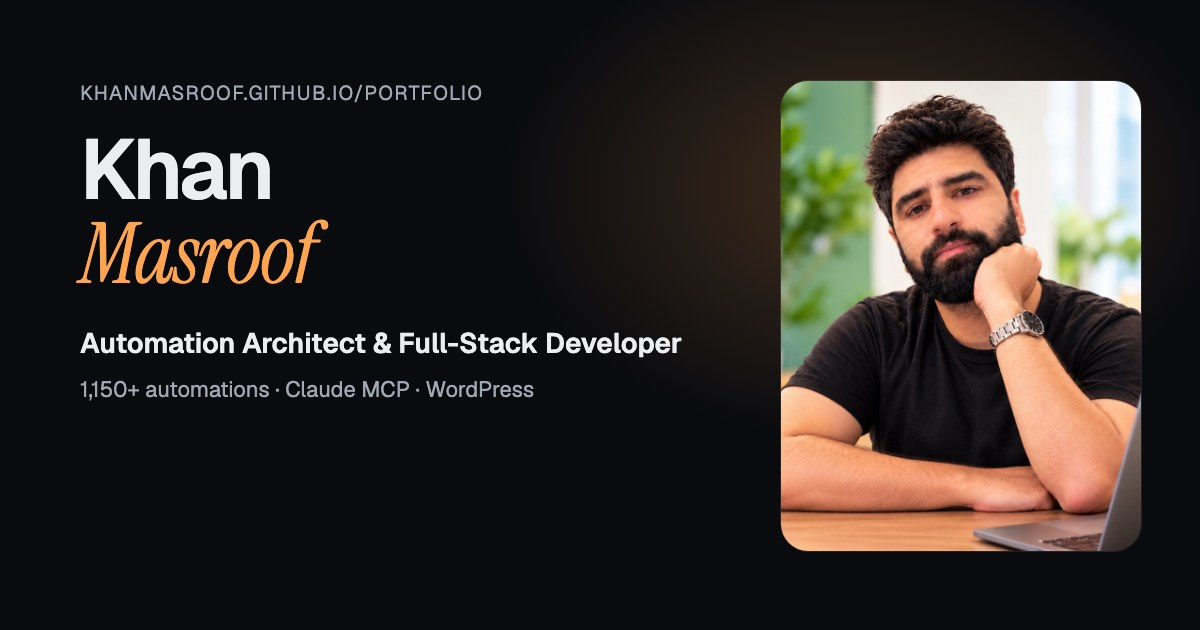
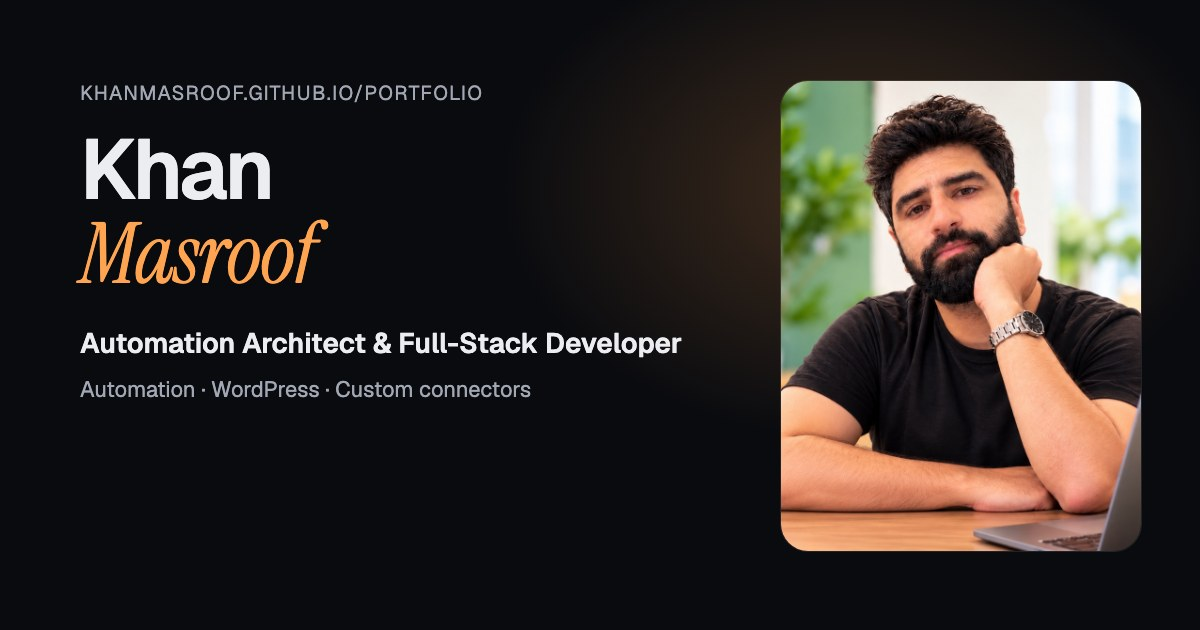
Add live flow diagram, lead with WordPress and automation
Animated five-stage flow from WordPress to team and AI, sections
reordered so automation and WordPress come first, updated counts
(800+ pages, 50+ connectors, 20+ services), EasyWebinar to
LeadSquared card, callback queue and Q&A inbox removed, photo
badges removed.

Changed region(s): [[0.0617, 0.6032, 0.4625, 0.6333]]

diff --git a/index.html b/index.html
@@ -4,7 +4,7 @@
 <meta charset="utf-8">
 <meta name="viewport" content="width=device-width, initial-scale=1">
 <title>Khan Masroof Portfolio</title>
-<meta name="description" content="Khan Masroof, automation architect and full-stack developer. 1,150+ automation pipelines, 13 production services and six Claude MCP connectors for a London edtech company.">
+<meta name="description" content="Khan Masroof, automation architect and full-stack developer. 1,150+ automations, 50+ custom connectors, 20+ production services and 800+ WordPress landing pages for a London edtech company.">
 <link rel="canonical" href="https://khanmasroof.github.io/portfolio/">
 <meta property="og:type" content="profile">
 <meta property="og:url" content="https://khanmasroof.github.io/portfolio/">
@@ -210,6 +210,32 @@ section{scroll-margin-top:72px}
 @media (max-width:720px){.auto-foot{grid-template-columns:1fr}}
 @media (max-width:460px){.plat{grid-template-columns:1fr}}
 
+/* live flow */
+.flow{background:var(--surface);border:1px solid var(--line);border-radius:24px;padding:clamp(20px,3vw,32px);position:relative;overflow:hidden}
+.flow::before{content:"";position:absolute;inset:-40% 30% auto 30%;height:300px;background:radial-gradient(closest-side,rgba(255,165,82,.10),transparent);pointer-events:none}
+.flow-live{position:relative;display:flex;align-items:center;gap:12px;font:500 14px/1.5 var(--mono);color:var(--text);background:var(--bg);border:1px solid var(--line);border-radius:14px;padding:12px 16px;margin-bottom:24px;min-height:50px}
+.flow-dot{width:8px;height:8px;border-radius:50%;background:#4ADE80;flex:none;box-shadow:0 0 0 4px rgba(74,222,128,.15);animation:blink 1.6s infinite}
+@keyframes blink{50%{opacity:.35}}
+.stages{list-style:none;margin:0;padding:0;display:grid;grid-template-columns:repeat(5,minmax(0,1fr));gap:28px;position:relative}
+.stage{position:relative;background:var(--bg);border:1px solid var(--line);border-radius:18px;padding:20px 18px;display:flex;flex-direction:column;gap:10px;transition:border-color .35s,box-shadow .35s,transform .35s}
+.stage > .ico{width:26px;height:26px;color:var(--accent)}
+.st-n{position:absolute;top:16px;right:16px;font:500 11.5px var(--mono);color:var(--muted)}
+.stage h3{font-size:18px;letter-spacing:-.02em}
+.stage p{color:var(--muted);font-size:14px;line-height:1.5}
+.stage .chips{margin-top:auto}
+.stage .chips span{font-size:11px;padding:4px 8px}
+.stage.on{border-color:rgba(255,165,82,.6);box-shadow:0 0 0 4px rgba(255,165,82,.08),0 20px 40px -20px rgba(255,165,82,.35);transform:translateY(-3px)}
+.stage:not(:last-child)::after{content:"";position:absolute;top:50%;right:-28px;width:28px;height:2px;background:repeating-linear-gradient(90deg,rgba(255,165,82,.55) 0 6px,transparent 6px 11px);background-size:22px 2px;animation:dash 1s linear infinite}
+@keyframes dash{to{background-position:22px 0}}
+@keyframes dashv{to{background-position:0 22px}}
+@media (max-width:1060px){
+  .stages{grid-template-columns:1fr;gap:26px}
+  .stage{display:grid;grid-template-columns:30px minmax(0,1fr);column-gap:14px;row-gap:6px;align-items:start}
+  .stage > .ico{grid-row:span 3}
+  .stage .chips{margin-top:4px}
+  .stage:not(:last-child)::after{top:auto;bottom:-26px;right:auto;left:32px;width:2px;height:26px;background:repeating-linear-gradient(180deg,rgba(255,165,82,.55) 0 6px,transparent 6px 11px);background-size:2px 22px;animation:dashv 1s linear infinite}
+}
+
 /* experience */
 .xp{display:grid;gap:18px}
 .job{display:grid;grid-template-columns:220px minmax(0,1fr);gap:28px;padding:30px;background:var(--surface);border:1px solid var(--line);border-radius:22px}
@@ -277,9 +303,10 @@ footer .wrap{display:flex;justify-content:space-between;gap:12px;flex-wrap:wrap}
   <div class="wrap">
     <a class="brand" href="#top"><i>KM</i>Khan Masroof</a>
     <ul>
-      <li><a href="#work">Work</a></li>
+      <li><a href="#flow">Live flow</a></li>
       <li><a href="#automation">Automation</a></li>
       <li><a href="#wordpress">WordPress</a></li>
+      <li><a href="#work">Tools</a></li>
       <li><a href="#experience">Experience</a></li>
       <li><a href="#skills">Skills</a></li>
     </ul>
@@ -294,9 +321,9 @@ footer .wrap{display:flex;justify-content:space-between;gap:12px;flex-wrap:wrap}
       <span class="avail"><b></b>Open to remote roles · Srinagar, India</span>
       <h1>I make business tools <em>talk</em> to each other.</h1>
       <p class="role">Automation Architect &amp; Full-Stack Developer</p>
-      <p class="intro">For three years I have run the automation behind a London edtech company: 1,150+ automations in Zapier, Make, n8n and Pabbly, 13 cloud services, custom Claude AI connectors, and the WordPress site its customers use every day.</p>
+      <p class="intro">For three years I have run the automation behind a London edtech company: 1,150+ automations in Zapier, Make, n8n and Pabbly, 50+ custom connectors, 20+ cloud services, and a WordPress site with 800+ landing pages.</p>
       <div class="cta">
-        <a class="btn" href="#work">See my work <svg class="ico"><use href="#i-arrow"/></svg></a>
+        <a class="btn" href="#flow">See how it works <svg class="ico"><use href="#i-arrow"/></svg></a>
         <a class="btn ghost" href="#contact">Contact me</a>
       </div>
     </div>
@@ -305,89 +332,63 @@ footer .wrap{display:flex;justify-content:space-between;gap:12px;flex-wrap:wrap}
         <img src="photo.jpg" alt="Khan Masroof" onerror="this.remove();document.getElementById('fb').hidden=false">
         <span class="mono-fb" id="fb" hidden>KM</span>
       </div>
-      <div class="float f1"><svg class="ico"><use href="#i-zap"/></svg><div><strong class="tnum">1,150+</strong><br><span>automations live</span></div></div>
-      <div class="float f2"><svg class="ico"><use href="#i-bot"/></svg><div><strong>Claude MCP</strong><br><span>6 connectors built</span></div></div>
     </div>
   </div>
 
   <div class="wrap" style="position:relative;z-index:1;margin-top:clamp(56px,7vw,88px)">
     <div class="stats">
-      <div class="stat"><strong class="tnum">1,150<sup>+</sup></strong><span>automation pipelines in Zapier, Make and n8n</span></div>
-      <div class="stat"><strong class="tnum">13</strong><span>services I built, live in production on Railway</span></div>
-      <div class="stat"><strong class="tnum">40<sup>+</sup></strong><span>WordPress pages, themes and plugins</span></div>
-            <div class="stat"><strong class="tnum">6</strong><span>custom Claude AI connectors in TypeScript</span></div>
+      <div class="stat"><strong class="tnum">1,150<sup>+</sup></strong><span>automations in Zapier, Make, n8n and Pabbly</span></div>
+      <div class="stat"><strong class="tnum">800<sup>+</sup></strong><span>WordPress landing pages designed and built</span></div>
+      <div class="stat"><strong class="tnum">50<sup>+</sup></strong><span>custom connectors and integrations</span></div>
+            <div class="stat"><strong class="tnum">20<sup>+</sup></strong><span>services I built, live in production on Railway</span></div>
     </div>
   </div>
 </header>
 
 <main>
-<section class="sec" id="work">
+<section class="sec" id="flow">
   <div class="wrap">
     <div class="head">
       <div>
-        <div class="kicker">Selected work</div>
-        <h2>Tools I <em>built</em>.</h2>
+        <div class="kicker">Live flow</div>
+        <h2>From first click to <em>closed</em> sale.</h2>
       </div>
-      <p>Tools I designed and built. Every one is in production.</p>
+      <p>How a visitor moves through the systems I built. Every step below is WordPress or automation work of mine.</p>
     </div>
-
-    <div class="work">
-      <article class="card full">
-        <div style="display:flex;flex-direction:column;gap:16px">
-          <div class="tag"><svg class="ico"><use href="#i-bot"/></svg>AI integration</div>
-          <h3>Claude connectors that answer questions from live company data.</h3>
-          <p>I built six MCP servers in TypeScript and Node.js. The marketing and sales teams ask Claude in plain English and get answers from the CRM, Google Analytics and ad accounts, without exporting a single spreadsheet.</p>
-          <div class="servers">
-            <span><b></b>LeadSquared CRM</span><span><b></b>Google Analytics 4</span><span><b></b>Google Ads</span>
-            <span><b></b>Keap</span><span><b></b>WATI WhatsApp</span><span><b></b>EasyWebinar</span>
-          </div>
-        </div>
-        <div class="chat" aria-label="Example conversation with Claude using the connectors">
-          <div class="msg u">How many leads came from LinkedIn this week, and how many booked a call?</div>
-          <div class="tool"><i></i>leadsquared.search_leads · ga4.traffic_sources</div>
-          <div class="msg a">LinkedIn brought 142 new leads this week, up 18% on last week. 23 of them booked a career call.
-            <div class="mini"><div><b class="tnum">142</b><small>leads</small></div><div><b class="tnum">+18%</b><small>vs last week</small></div><div><b class="tnum">23</b><small>calls booked</small></div></div>
-          </div>
-          <div class="tool" style="justify-content:flex-end">Example conversation</div>
-        </div>
-      </article>
-
-      <article class="card wide">
-        <div class="tag"><svg class="ico"><use href="#i-chat"/></svg>My own product</div>
-        <h3>Inboxly, a shared WhatsApp inbox for sales teams</h3>
-        <p>Several agents work one WhatsApp number together, with assignment, internal notes, stages and live updates. I designed and built it alone, from the database to the interface.</p>
-        <div class="chips"><span>Next.js 15</span><span>Fastify</span><span>Socket.IO</span><span>BullMQ</span><span>Redis</span><span>MongoDB</span></div>
-        <div class="metric"><strong class="tnum">5</strong><span>services running on Railway</span></div>
-      </article>
-
-      <article class="card wide">
-        <div class="tag"><svg class="ico"><use href="#i-zap"/></svg>Custom integrations</div>
-        <h3>CRM integrations written in code</h3>
-        <p>When a no-code step is not enough, I write the integration as its own service. Phone calls, meeting bookings and webinar attendance each land on the right lead in the CRM, in real time.</p>
-        <div class="chips"><span>CallHippo</span><span>Dialpad</span><span>Calendly</span><span>EasyWebinar</span><span>Zoom</span><span>LeadSquared</span></div>
-        <div class="metric"><strong class="tnum">7.4k</strong><span>new leads a month flow through them</span></div>
-      </article>
-
-      <article class="card">
-        <div class="tag"><svg class="ico"><use href="#i-grid"/></svg>Sales dashboard</div>
-        <h3>Callback queue</h3>
-        <p>Every "please call me" request from forms and webinars in one list, fed by my Fluent Forms plugin. Reps claim a lead with one click.</p>
-        <div class="metric"><strong class="tnum">35 to 40</strong><span>requests a day</span></div>
-      </article>
-
-      <article class="card">
-        <div class="tag"><svg class="ico"><use href="#i-chat"/></svg>Webinar tool</div>
-        <h3>Webinar Q&amp;A inbox</h3>
-        <p>Collects every question asked in live webinars and groups them by person, so sales sees the full story before calling.</p>
-        <div class="metric"><strong class="tnum">0</strong><span>dependencies, pure Node.js</span></div>
-      </article>
-
-      <article class="card">
-        <div class="tag"><svg class="ico"><use href="#i-db"/></svg>Marketing dashboard</div>
-        <h3>Lead source dashboard</h3>
-        <p>Shows which channel every new lead came from, using UTM data captured on the website.</p>
-        <div class="metric"><strong class="tnum">100</strong><span>new leads a day, attributed</span></div>
-      </article>
+    <div class="flow" id="flowbox">
+      <div class="flow-live" aria-live="polite"><span class="flow-dot"></span><span id="flow-text">A visitor lands on a course page from a LinkedIn ad. The child theme saves the UTM source.</span></div>
+      <ol class="stages">
+        <li class="stage" data-say="A visitor lands on a course page from a LinkedIn ad. The child theme saves the UTM source.">
+          <span class="st-n">01</span><svg class="ico"><use href="#i-wp"/></svg>
+          <h3>WordPress site</h3>
+          <p>800+ landing pages on a custom child theme</p>
+          <div class="chips"><span>Elementor</span><span>PHP</span><span>UTM capture</span></div>
+        </li>
+        <li class="stage" data-say="They fill in the Fluent Forms form. My plugin verifies their phone with a WhatsApp OTP.">
+          <span class="st-n">02</span><svg class="ico"><use href="#i-plug"/></svg>
+          <h3>Capture</h3>
+          <p>Forms, webinars and bookings, verified at the source</p>
+          <div class="chips"><span>Fluent Forms</span><span>WATI OTP</span><span>EasyWebinar</span><span>Calendly</span></div>
+        </li>
+        <li class="stage" data-say="An automation tags the lead, scores it and starts the right nurture sequence.">
+          <span class="st-n">03</span><svg class="ico"><use href="#i-zap"/></svg>
+          <h3>Automation</h3>
+          <p>1,150+ workflows and 20+ custom services</p>
+          <div class="chips"><span>Zapier</span><span>Make</span><span>n8n</span><span>Pabbly</span><span>Railway</span></div>
+        </li>
+        <li class="stage" data-say="The lead lands in the CRM with its source, webinar watch time and the right owner.">
+          <span class="st-n">04</span><svg class="ico"><use href="#i-db"/></svg>
+          <h3>CRM</h3>
+          <p>One complete record per lead</p>
+          <div class="chips"><span>LeadSquared</span><span>GoHighLevel</span><span>ActiveCampaign</span><span>Keap</span></div>
+        </li>
+        <li class="stage" data-say="Sales gets a WhatsApp-ready lead, and managers ask Claude how the campaign is doing.">
+          <span class="st-n">05</span><svg class="ico"><use href="#i-bot"/></svg>
+          <h3>Team and AI</h3>
+          <p>Sales follow-up, WhatsApp and Claude answers</p>
+          <div class="chips"><span>WATI</span><span>Claude MCP</span><span>Dashboards</span></div>
+        </li>
+      </ol>
     </div>
   </div>
 </section>
@@ -445,14 +446,14 @@ footer .wrap{display:flex;justify-content:space-between;gap:12px;flex-wrap:wrap}
       <article class="card full wp-pages">
         <div style="display:flex;flex-direction:column;gap:14px">
           <div class="tag"><svg class="ico"><use href="#i-layout"/></svg>Web design</div>
-          <h3>40+ landing pages for a global AI academy</h3>
-          <p>Course pages, webinar registration and replay pages, lead magnets and a redesigned mega menu, built in Elementor from one design system. Every page is tested on desktop, tablet and phone before launch.</p>
+          <h3>800+ landing pages for a global AI academy</h3>
+          <p>Course pages, webinar registration and replay pages, lead magnets, thank-you pages and a redesigned mega menu, built in Elementor from one design system. Every page is tested on desktop, tablet and phone before launch.</p>
         </div>
         <div>
           <div class="inv">
-            <div><strong class="tnum">21</strong><span>course pages</span></div>
-            <div><strong class="tnum">12</strong><span>lead magnets</span></div>
-            <div><strong class="tnum">7+</strong><span>webinar pages</span></div>
+            <div><strong class="tnum">800+</strong><span>pages built</span></div>
+            <div><strong class="tnum">3</strong><span>screen sizes tested per page</span></div>
+            <div><strong>1</strong><span>shared design system</span></div>
           </div>
           <div class="links" style="border-top:0;padding-top:16px">
             <a href="https://k21academy.com/agenticai-fp/">Agentic AI <svg class="ico"><use href="#i-ext"/></svg></a>
@@ -466,6 +467,76 @@ footer .wrap{display:flex;justify-content:space-between;gap:12px;flex-wrap:wrap}
     </div>
   </div>
 </section>
+
+<section class="sec" id="work">
+  <div class="wrap">
+    <div class="head">
+      <div>
+        <div class="kicker">Selected work</div>
+        <h2>More tools I <em>built</em>.</h2>
+      </div>
+      <p>Tools I designed and built. Every one is in production.</p>
+    </div>
+
+    <div class="work">
+      <article class="card full">
+        <div style="display:flex;flex-direction:column;gap:16px">
+          <div class="tag"><svg class="ico"><use href="#i-bot"/></svg>AI integration</div>
+          <h3>Claude connectors that answer questions from live company data.</h3>
+          <p>Among my 50+ custom connectors are MCP servers in TypeScript and Node.js. The marketing and sales teams ask Claude in plain English and get answers from the CRM, Google Analytics and ad accounts, without exporting a single spreadsheet.</p>
+          <div class="servers">
+            <span><b></b>LeadSquared CRM</span><span><b></b>Google Analytics 4</span><span><b></b>Google Ads</span>
+            <span><b></b>Keap</span><span><b></b>WATI WhatsApp</span><span><b></b>EasyWebinar</span>
+          </div>
+        </div>
+        <div class="chat" aria-label="Example conversation with Claude using the connectors">
+          <div class="msg u">How many leads came from LinkedIn this week, and how many booked a call?</div>
+          <div class="tool"><i></i>leadsquared.search_leads · ga4.traffic_sources</div>
+          <div class="msg a">LinkedIn brought 142 new leads this week, up 18% on last week. 23 of them booked a career call.
+            <div class="mini"><div><b class="tnum">142</b><small>leads</small></div><div><b class="tnum">+18%</b><small>vs last week</small></div><div><b class="tnum">23</b><small>calls booked</small></div></div>
+          </div>
+          <div class="tool" style="justify-content:flex-end">Example conversation</div>
+        </div>
+      </article>
+
+      <article class="card wide">
+        <div class="tag"><svg class="ico"><use href="#i-chat"/></svg>My own product</div>
+        <h3>Inboxly, a shared WhatsApp inbox for sales teams</h3>
+        <p>Several agents work one WhatsApp number together, with assignment, internal notes, stages and live updates. I designed and built it alone, from the database to the interface.</p>
+        <div class="chips"><span>Next.js 15</span><span>Fastify</span><span>Socket.IO</span><span>BullMQ</span><span>Redis</span><span>MongoDB</span></div>
+        <div class="metric"><strong class="tnum">5</strong><span>services running on Railway</span></div>
+      </article>
+
+      <article class="card wide">
+        <div class="tag"><svg class="ico"><use href="#i-zap"/></svg>Custom integrations</div>
+        <h3>CRM integrations written in code</h3>
+        <p>When a no-code step is not enough, I write the integration as its own service. Phone calls, meeting bookings and webinar attendance each land on the right lead in the CRM, in real time.</p>
+        <div class="chips"><span>CallHippo</span><span>Dialpad</span><span>Calendly</span><span>EasyWebinar</span><span>Zoom</span><span>LeadSquared</span></div>
+        <div class="metric"><strong class="tnum">7.4k</strong><span>new leads a month flow through them</span></div>
+      </article>
+
+      <article class="card wide">
+        <div class="tag"><svg class="ico"><use href="#i-play"/></svg>Webinar integration</div>
+        <h3>EasyWebinar to LeadSquared</h3>
+        <p>Every webinar registrant becomes a lead, and their attendance, watch time and offer clicks land on that lead automatically. Sales calls the most engaged people first.</p>
+        <div class="chips"><span>EasyWebinar</span><span>LeadSquared</span><span>Node.js</span><span>Railway</span></div>
+        <div class="metric"><strong>Every</strong><span>registrant and session, tracked on the lead</span></div>
+      </article>
+
+      <article class="card wide">
+        <div class="tag"><svg class="ico"><use href="#i-db"/></svg>Marketing dashboard</div>
+        <h3>Lead source dashboard</h3>
+        <p>Shows which channel every new lead came from, using the UTM data my child theme captures on the website.</p>
+        <div class="metric"><strong class="tnum">100</strong><span>new leads a day, attributed</span></div>
+      </article>
+    </div>
+  </div>
+</section>
+
+
+
+
+
 
 <section class="sec" id="experience">
   <div class="wrap">
@@ -483,9 +554,9 @@ footer .wrap{display:flex;justify-content:space-between;gap:12px;flex-wrap:wrap}
           <p class="org">K21 Academy, London</p>
           <ul>
             <li>Built and run 1,150+ automations in Zapier, Make, n8n and Pabbly Connect, with AI routing steps using the OpenAI and Claude APIs.</li>
-            <li>Built six custom Claude MCP connectors and 13 production services on Railway.</li>
+            <li>Built 50+ custom connectors and integrations, including Claude MCP servers and an EasyWebinar to LeadSquared integration, and 20+ production services on Railway.</li>
             <li>Own CRM workflows across GoHighLevel, ActiveCampaign, Mailchimp, Keap and LeadSquared.</li>
-            <li>Deliver WordPress end to end: child themes and custom plugins in PHP, Fluent Forms extensions, ACF, WooCommerce and 40+ Elementor pages.</li>
+            <li>Deliver WordPress end to end: child themes and custom plugins in PHP, Fluent Forms extensions, ACF, WooCommerce and 800+ Elementor landing pages.</li>
           </ul>
         </div>
       </div>
@@ -554,6 +625,17 @@ document.getElementById("copy").addEventListener("click", async function () {
   }
   setTimeout(() => { label.textContent = "Copy"; label.classList.remove("copied"); }, 2200);
 });
+(function () {
+  const stages = [...document.querySelectorAll(".stage")];
+  const text = document.getElementById("flow-text");
+  if (!stages.length) return;
+  let i = 0;
+  const show = n => { stages.forEach((s, k) => s.classList.toggle("on", k === n)); text.textContent = stages[n].dataset.say; };
+  show(0);
+  if (window.matchMedia("(prefers-reduced-motion: reduce)").matches) return;
+  let timer = setInterval(() => { i = (i + 1) % stages.length; show(i); }, 2600);
+  stages.forEach((s, k) => s.addEventListener("mouseenter", () => { clearInterval(timer); i = k; show(k); timer = setInterval(() => { i = (i + 1) % stages.length; show(i); }, 2600); }));
+})();
 </script>
 </body>
 </html>
